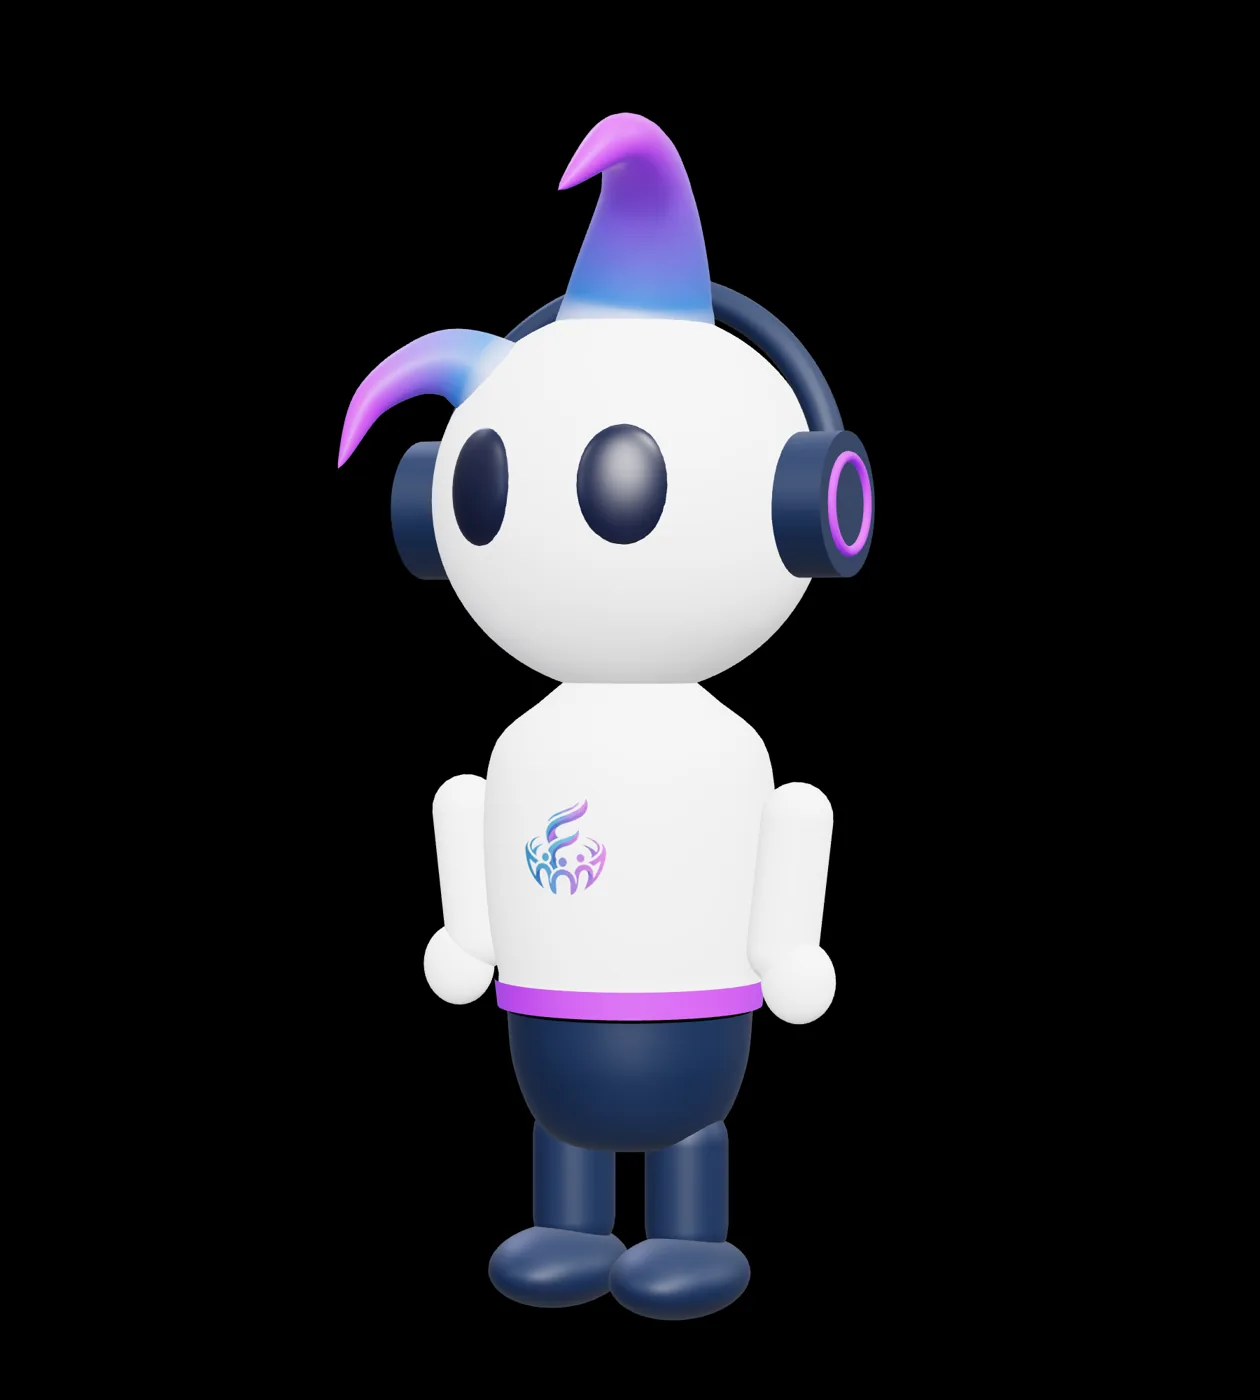
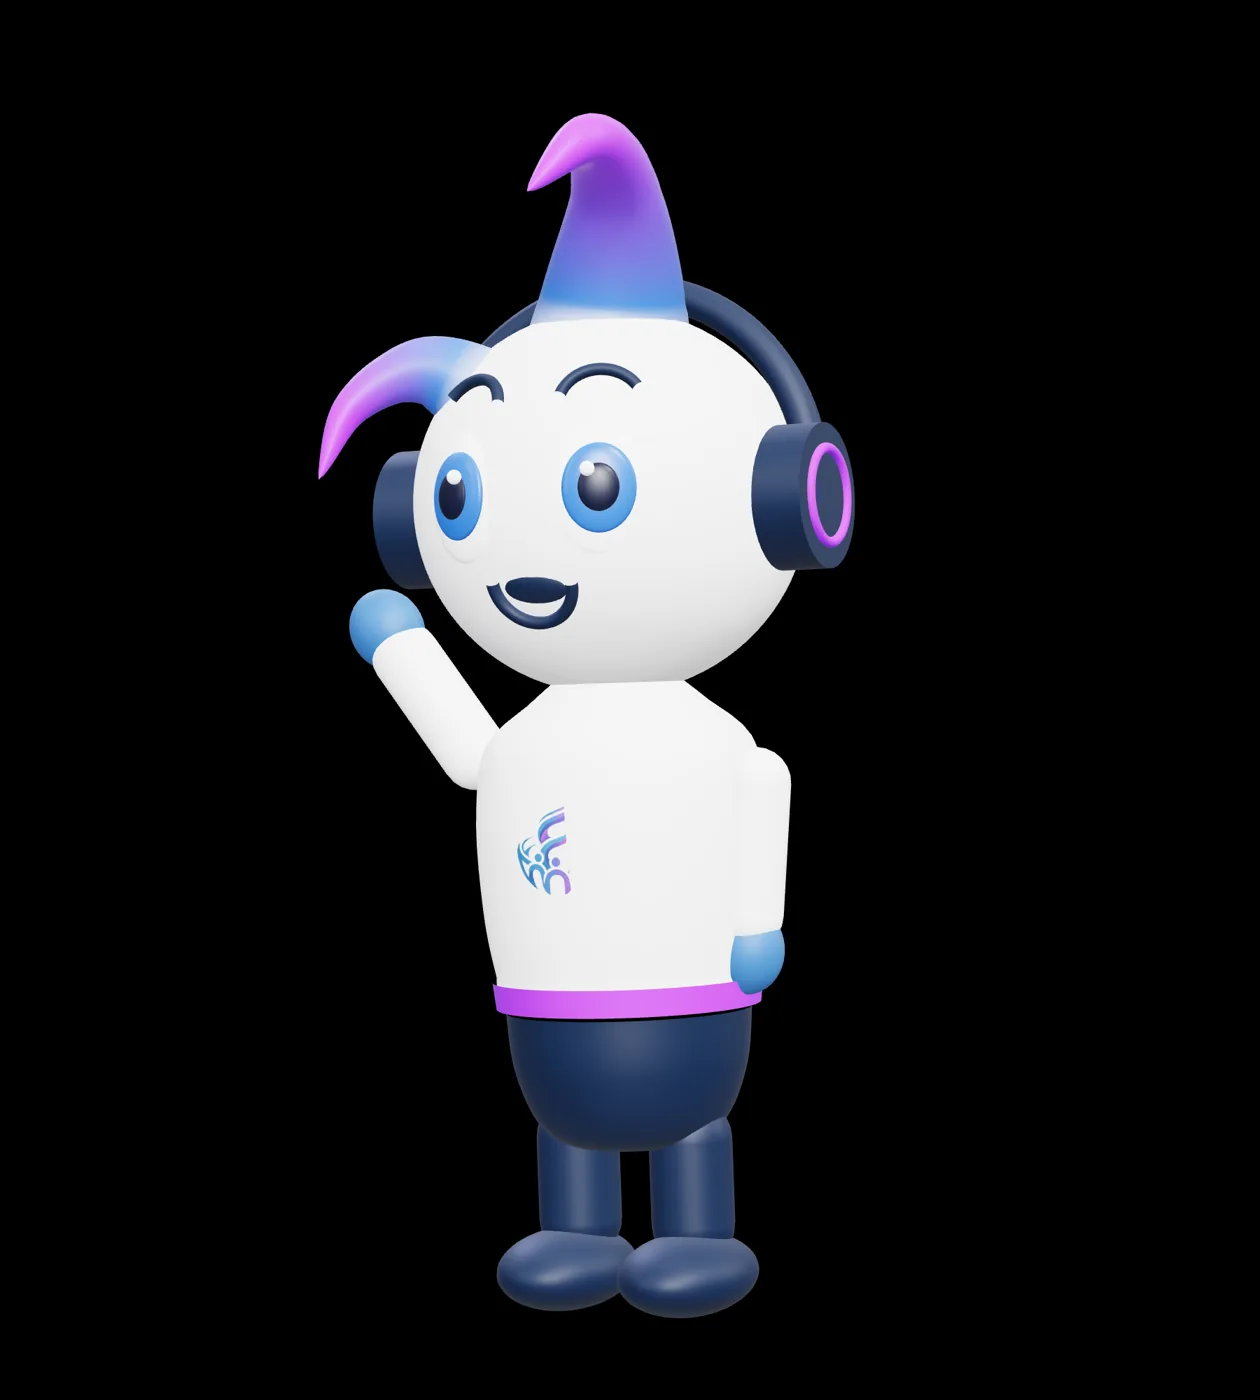
feat(identidade): Evo 3D v3, mais parecido com o 2D (olhos, sobrancelhas, boca, braço acenando, luvas)
Pedido do Ricardo no Portão 1: sóbrio vale para material, luz e enquadramento; o personagem continua o Evo.

diff --git a/docs/identidade-v3/evo-3d/index.html b/docs/identidade-v3/evo-3d/index.html
@@ -5,7 +5,7 @@
 <meta name="viewport" content="width=device-width, initial-scale=1" />
 <title>Evo 3D — prova</title>
 <link rel="icon" href="data:," />
-<!-- Prova local da Fase 2 do Modo Refero (Decisões 244–246), v2 depois de duas passadas do revisor. Fora das rotas do produto.
+<!-- Prova local da Fase 2 do Modo Refero (Decisões 244–246), v3 (mais parecido com o 2D, pedido do Ricardo) depois de duas passadas do revisor na v2. Fora das rotas do produto.
      three.js vem da CDN só nesta prova: o app ainda não tem a dependência (decisão do Ricardo, ver a nota do PR).
      No produto o pacote entra pelo npm, em chunk separado por rota. -->
 <style>
@@ -33,7 +33,7 @@
 <body>
 <canvas id="cena" aria-label="Evo, mascote da Evokaa, em 3D" role="img"></canvas>
 <img id="poster" src="evo-3d-poster.webp" alt="Evo, mascote da Evokaa, em 3D" />
-<div id="rotulo"><b>Evo</b> · prova 3D · v2.1 · <span id="fps"></span></div>
+<div id="rotulo"><b>Evo</b> · prova 3D · v3 · <span id="fps"></span></div>
 
 <script type="module">
 import * as THREE from 'three';
@@ -69,6 +69,9 @@ function montar(gl) {
   const violeta = new THREE.MeshStandardMaterial({ color: 0x8f33f5, roughness: 0.65, metalness: 0, envMapIntensity: 0.4 });
   const lente = new THREE.MeshStandardMaterial({ color: 0x0a1430, roughness: 0.38, metalness: 0, envMapIntensity: 0.3 });
   const topete = new THREE.MeshStandardMaterial({ vertexColors: true, roughness: 0.5, metalness: 0, envMapIntensity: 0.5 });
+  const esclera = new THREE.MeshStandardMaterial({ color: 0xffffff, roughness: 0.3, metalness: 0, envMapIntensity: 0.4 });
+  const iris = new THREE.MeshStandardMaterial({ color: 0x1d68c4, roughness: 0.35, metalness: 0, envMapIntensity: 0.5 });
+  const azul = new THREE.MeshStandardMaterial({ color: 0x2f6aa8, roughness: 0.55, metalness: 0.05, envMapIntensity: 0.6 });
 
   const evo = new THREE.Group();
   const peca = (geo, mat, x = 0, y = 0, z = 0) => { const m = new THREE.Mesh(geo, mat); m.position.set(x, y, z); evo.add(m); return m; };
@@ -77,13 +80,21 @@ function montar(gl) {
 
   // Cabeça (centro 2.55, raio 0.95): 38,5% da altura sem o topete, 32,5% com ele (medido pelo revisor)
   const cabeca = peca(new THREE.SphereGeometry(0.95, 64, 48), branco, 0, 2.55, 0); cabeca.scale.set(1, 0.97, 0.98);
-  // Olhos: lentes escuras embutidas; sem pupila desenhada, sem brilho de ambiente
+  evo.rotation.z = 0.04; // cabeça e corpo levemente inclinados, pose viva
+  // Olhos como no 2D: branco, íris azul grande, pupila escura e um brilho pequeno; sobrancelha fina; boca sorrindo
+  const naFace = (dir, dist) => dir.clone().normalize().multiplyScalar(dist).add(cabeca.position);
   for (const s of [-1, 1]) {
-    const d = new THREE.Vector3(s * 0.4, 0.05, 0.9).normalize();
-    const olho = peca(new THREE.SphereGeometry(0.23, 32, 20), lente);
-    olho.position.copy(d).multiplyScalar(0.88).add(cabeca.position); olho.lookAt(d.clone().multiplyScalar(5).add(cabeca.position));
-    olho.scale.set(1, 1.2, 0.3);
+    const d = new THREE.Vector3(s * 0.38, 0.02, 0.9);
+    const branco_ = peca(new THREE.SphereGeometry(0.25, 32, 20), esclera); branco_.position.copy(naFace(d, 0.86)); branco_.lookAt(naFace(d, 5)); branco_.scale.set(1, 1.25, 0.35);
+    const ir = peca(new THREE.SphereGeometry(0.17, 32, 20), iris); ir.position.copy(naFace(d, 0.93)); ir.lookAt(naFace(d, 5)); ir.scale.set(1, 1.2, 0.25);
+    const pu = peca(new THREE.SphereGeometry(0.095, 24, 16), lente); pu.position.copy(naFace(d, 0.965)); pu.lookAt(naFace(d, 5)); pu.scale.set(1, 1.15, 0.25);
+    const br = peca(new THREE.SphereGeometry(0.035, 12, 8), esclera); br.position.copy(naFace(new THREE.Vector3(s * 0.33, 0.1, 0.9), 0.995));
+    const sob = peca(new THREE.TorusGeometry(0.2, 0.028, 10, 32, Math.PI * 0.7), marinho); sob.position.copy(naFace(new THREE.Vector3(s * 0.38, 0.42, 0.85), 0.93));
+    sob.lookAt(naFace(new THREE.Vector3(s * 0.38, 0.42, 0.85), 5)); sob.rotation.z += Math.PI * 0.15 + s * 0.12;
   }
+  const boca = peca(new THREE.TorusGeometry(0.2, 0.03, 10, 32, Math.PI), marinho); boca.position.copy(naFace(new THREE.Vector3(0, -0.42, 0.9), 0.94));
+  boca.lookAt(naFace(new THREE.Vector3(0, -0.42, 0.9), 5)); boca.rotation.z += Math.PI;
+  const dentro = peca(new THREE.SphereGeometry(0.17, 24, 16), marinho); dentro.position.copy(naFace(new THREE.Vector3(0, -0.47, 0.9), 0.9)); dentro.lookAt(naFace(new THREE.Vector3(0, -0.47, 0.9), 5)); dentro.scale.set(1, 0.5, 0.25);
   // Fones: arco e conchas em laca marinho; anel violeta fosco na concha (a cor da marca, como no 2D)
   const arco = peca(new THREE.TorusGeometry(1.03, 0.08, 16, 64, Math.PI), marinho, 0, 2.55, -0.05); arco.rotation.x = -0.12;
   for (const s of [-1, 1]) {
@@ -114,9 +125,12 @@ function montar(gl) {
   const tronco = lathe([[0.3, 1.7], [0.42, 1.6], [0.64, 1.4], [0.7, 1.05], [0.68, 0.6], [0.63, 0.3], [0.58, 0.15], [0, 0.1]], branco);
   lathe([[0.65, 0.27], [0.635, 0.14]], violeta);                       // faixa
   lathe([[0.59, 0.12], [0.56, -0.15], [0.46, -0.4], [0.3, -0.52], [0, -0.55]], marinho);
+  // braço esquerdo (s = 1) relaxado; braço direito (s = -1) levantado, acenando, como na pose 2D. Cada braço gira no ombro.
   for (const s of [-1, 1]) {
-    const braco = peca(new THREE.CapsuleGeometry(0.17, 0.62, 6, 24), branco, s * 0.84, 0.75, 0.02); braco.rotation.z = s * -0.12;
-    peca(new THREE.SphereGeometry(0.2, 28, 20), branco, s * 0.9, 0.3, 0.06).scale.set(0.9, 1, 0.75);  // mão com pulso
+    const sobe = s === -1;
+    const ombro = new THREE.Group(); ombro.position.set(s * 0.72, 1.28, 0.02); ombro.rotation.z = sobe ? -2.5 : s * -0.1; evo.add(ombro);
+    const braco = new THREE.Mesh(new THREE.CapsuleGeometry(0.17, 0.62, 6, 24), branco); braco.position.y = -0.4; ombro.add(braco);
+    const mao = new THREE.Mesh(new THREE.SphereGeometry(0.21, 28, 20), azul); mao.position.y = -0.88; mao.scale.set(0.9, 1, 0.75); ombro.add(mao);  // luva, como no 2D
     peca(new THREE.CapsuleGeometry(0.2, 0.4, 6, 24), marinho, s * 0.3, -0.7, 0);
     peca(new THREE.SphereGeometry(0.33, 36, 24), marinho, s * 0.32, -1.12, 0.12).scale.set(0.95, 0.58, 1.3);
   }
